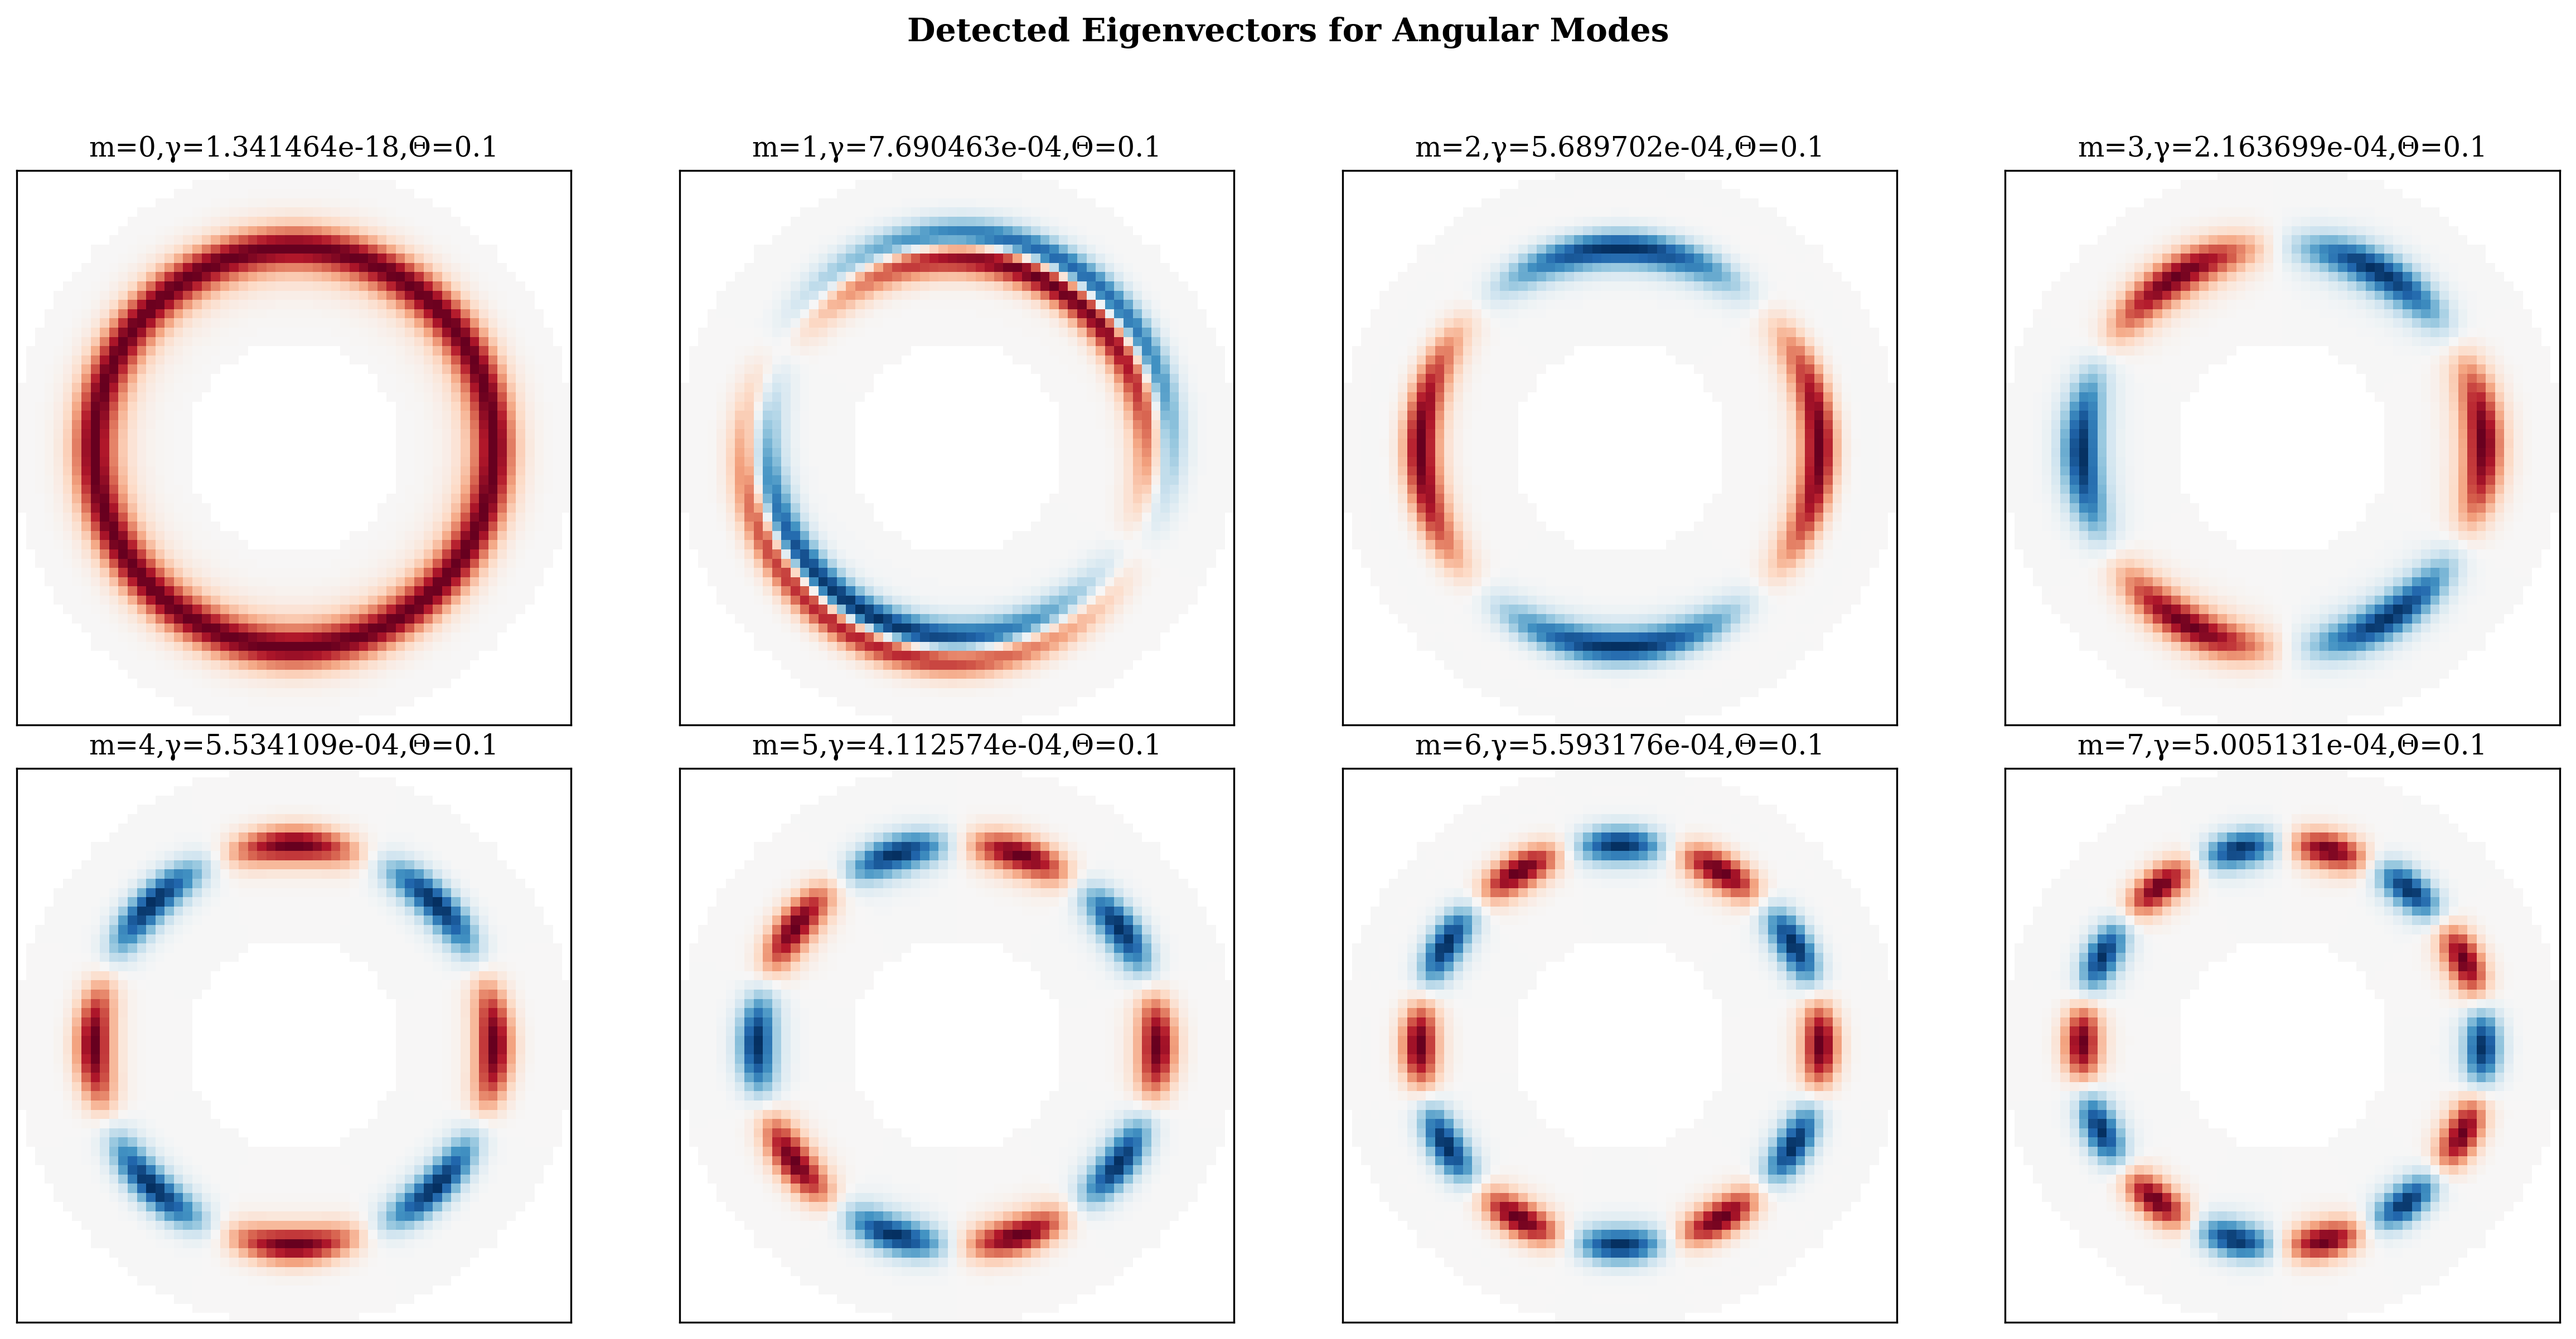
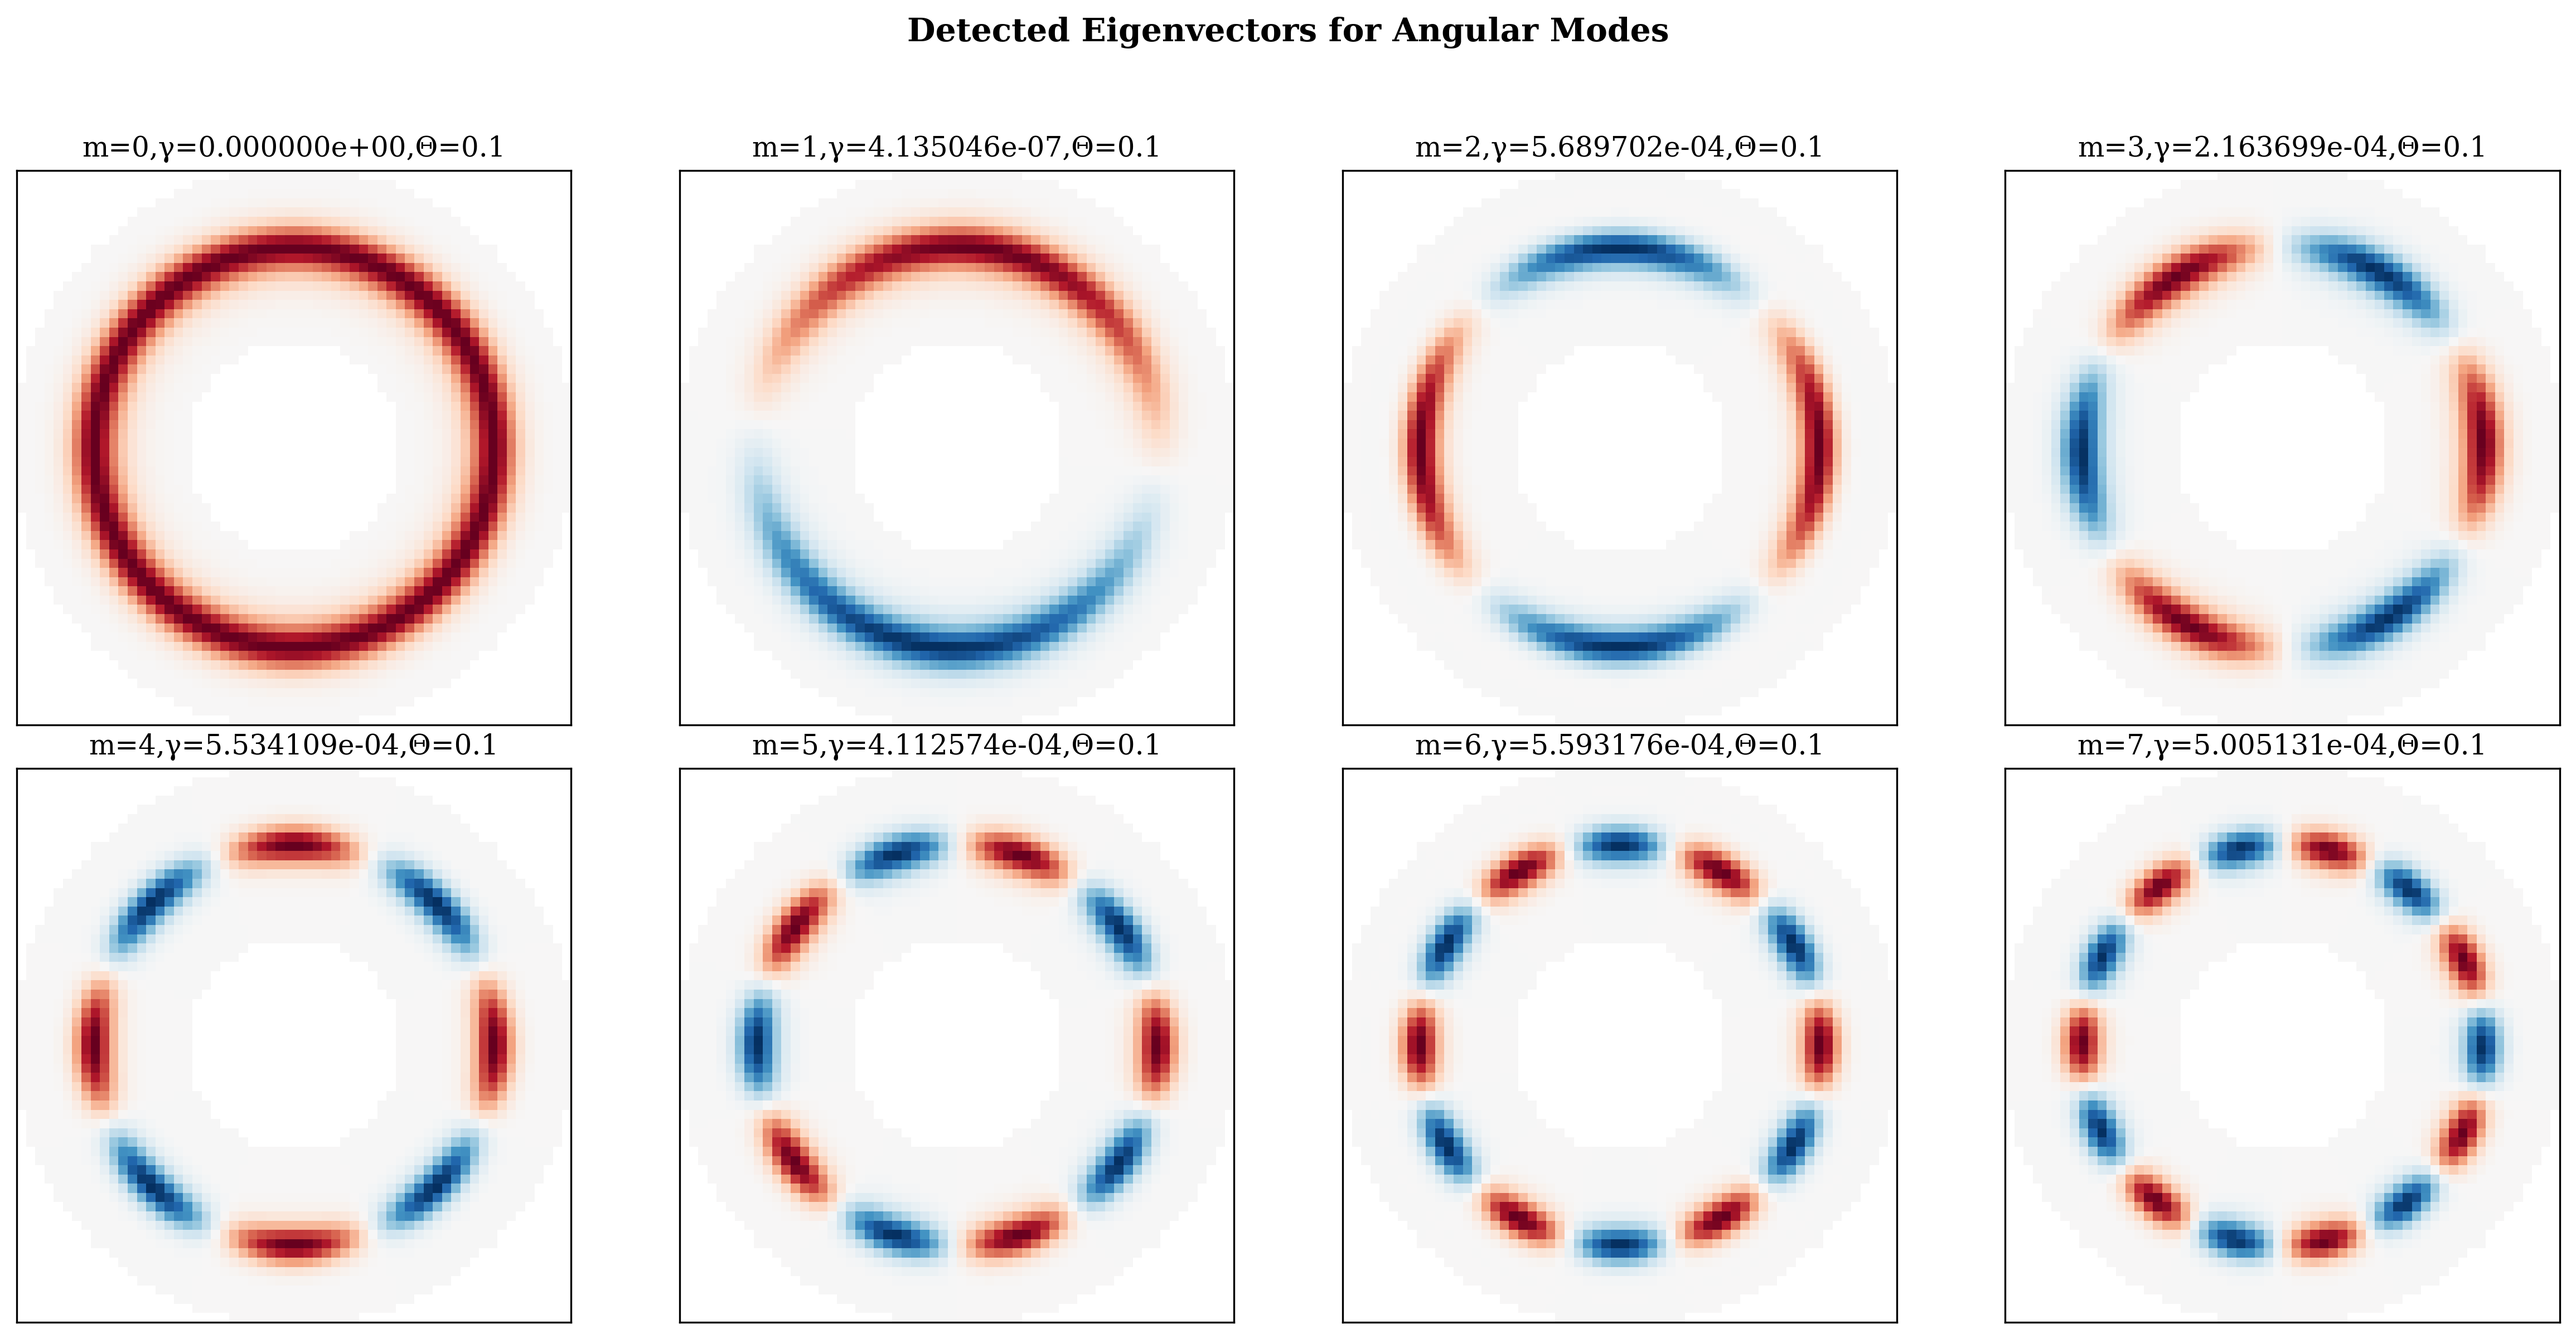
Come back simpler ploter: remove m=1 special case

Changed region(s): [[0.2805, 0.1561, 0.4675, 0.5306], [0.0312, 0.0936, 0.187, 0.1248], [0.3429, 0.0936, 0.4052, 0.1248]]

diff --git a/kryhin_levitov_2021/collision_integral_direct/Matrixes_bruteforce/read.py b/kryhin_levitov_2021/collision_integral_direct/Matrixes_bruteforce/read.py
@@ -25,7 +25,7 @@ plt.rcParams['font.family'] = 'serif'
 plt.rcParams["legend.frameon"] = False
 
 # Specific file to analyze
-MATRIX_FILE = r"D:\Рабочая папка\GitHub\electronic-kapitsa-waves\kryhin_levitov_2021\collision_integral_direct\Matrixes_bruteforce\M_Iee_nonparabolic_mu1_U10_N320_dp0.04626814_T0.1.pkl"#"D:\Рабочая папка\GitHub\electronic-kapitsa-waves\kryhin_levitov_2021\collision_integral_direct\Matrixes_bruteforce\M_Iee_nonparabolic_mu10_U1_N320_dp0.04626814_T0.1.pkl"#"D:\Downloads\28_1\Matrixes_bruteforce\M_Iee_N320_dp0.04626814_T0.1.pkl"#"D:\Рабочая папка\GitHub\electronic-kapitsa-waves\kryhin_levitov_2021\collision_integral_direct\Matrixes_bruteforce\M_Iee_N410_dp0.012247449_T0.01.pkl"
+MATRIX_FILE = r"D:\Рабочая папка\GitHub\electronic-kapitsa-waves\kryhin_levitov_2021\collision_integral_direct\Matrixes_bruteforce\M_Iee_nonparabolic_mu1_U10_N320_dp0.04626814_T0.1.pkl"#r"D:\Downloads\28_1\Matrixes_bruteforce\M_Iee_N320_dp0.04626814_T0.1.pkl"#"D:\Рабочая папка\GitHub\electronic-kapitsa-waves\kryhin_levitov_2021\collision_integral_direct\Matrixes_bruteforce\M_Iee_N410_dp0.012247449_T0.01.pkl"
 #M_Iee_N320_dp0.032716515_T0.1.pkl"
 
 def build_centered_lattice(Nmax: int):
@@ -59,52 +59,6 @@ def reconstruct_px_py(meta):
     py = dp * (ny_active.astype(np.float64) + shift_y)
     
     return px, py
-
-
-def _alpha_disp_from_meta(meta):
-    """
-    Backward-compatible: if old files don't have dispersion metadata, assume parabolic.
-    """
-    disp = str(meta.get("dispersion", "parabolic"))
-    if "alpha" in meta:
-        alpha = float(meta["alpha"])
-    else:
-        mu = float(meta.get("mu_phys", 1.0))
-        U  = float(meta.get("U_band", 0.0))
-        alpha = U / mu if mu > 0 else 0.0
-    return alpha, disp
-
-
-def deps_dP_dimless(P, alpha, disp):
-    """
-    d eps / d p in dimensionless variables used by the generator.
-    Must match generator's definitions.
-    """
-    P = np.asarray(P, dtype=np.float64)
-    if disp == "parabolic":
-        return 2.0 * P
-    if disp == "nonparabolic":
-        a = float(alpha)
-        denom = np.sqrt(a * a + (1.0 + 2.0 * a) * (P * P))
-        return (1.0 + 2.0 * a) * P / np.maximum(denom, 1e-300)
-    raise ValueError(f"Unknown dispersion={disp!r}")
-
-
-def current_basis_vectors(meta, px, py):
-    """
-    Build current/velocity harmonic components:
-        jx ~ v(p) cos(theta),  jy ~ v(p) sin(theta),
-    where v(p)=d eps/dp for the dimensionless dispersion.
-    """
-    P = np.sqrt(px * px + py * py)
-    alpha, disp = _alpha_disp_from_meta(meta)
-    vmag = deps_dP_dimless(P, alpha, disp)
-    invP = 1.0 / np.maximum(P, 1e-300)
-    cx = px * invP
-    cy = py * invP
-    jx = vmag * cx
-    jy = vmag * cy
-    return jx, jy
 
 
 def wdot(u, v, w):
@@ -254,14 +208,11 @@ def print_conservation_residuals(Ma, meta, px, py):
         A = csr_matrix(-Ma)
 
     ones = np.ones(A.shape[0], dtype=np.float64)
-    jx, jy = current_basis_vectors(meta, px, py)
 
     cands = {
         "eta:1":   ones,
         "eta:px":  px,
         "eta:py":  py,
-        "eta:vx":  jx,
-        "eta:vy":  jy,
         "df:w":    w_safe,
         "df:wpx":  w_safe * px,
         "df:wpy":  w_safe * py,
@@ -320,9 +271,6 @@ def compute_eigenfunctions_by_mode(Ma, meta, ms=[0, 1, 2, 3, 4, 5, 6, 7, 8]):
     P = np.sqrt(px * px + py * py)
     Theta = float(meta.get("Theta", 0.0))
     dp = float(meta.get("dp", 0.0))
-
-    # Current basis components (vx, vy)
-    jx, jy = current_basis_vectors(meta, px, py)
     
     # Collision operator: -M v = gamma W v
     if isinstance(Ma, csr_matrix):
@@ -345,7 +293,7 @@ def compute_eigenfunctions_by_mode(Ma, meta, ms=[0, 1, 2, 3, 4, 5, 6, 7, 8]):
     if REG_ABS > 0.0:
         A = A + diags([REG_ABS] * n, 0, format="csr")
     
-    # Invariants under normal e-e collisions: density + momentum (px,py)
+    # Invariants: density and momentum
     inv_vecs = [np.ones(n, dtype=np.float64), px.copy(), py.copy()]
     
     # W-orthonormalize invariants (density + px + py)
@@ -370,31 +318,14 @@ def compute_eigenfunctions_by_mode(Ma, meta, ms=[0, 1, 2, 3, 4, 5, 6, 7, 8]):
             # m=0: constant mode (conserved density)
             u0 = inv_orth[0] if len(inv_orth) > 0 else np.ones(n, dtype=np.float64) / np.sqrt(n)
             eigenfunctions[m] = u0
-            # Report Rayleigh gamma for diagnostics (should be ~0)
-            gamma0 = rayleigh_gamma(A, w_safe, u0)
-            eigenvalues[m] = float(max(gamma0, 0.0))
-            print(f"  [m={m}] density mode: gamma(Rayleigh)={gamma0:.6e} (should be ~0)")
+            eigenvalues[m] = 0.0
+            print(f"  [m={m}] density mode: gamma=0.0 (conserved)")
             continue
         
-        if m == 1:
-            # m=1 in *this project* represents the CURRENT (velocity) harmonic.
-            # To obtain a finite relaxation rate in non-parabolic bands, we must
-            # remove the conserved density+momentum subspace first; otherwise the
-            # current basis overlaps the exact momentum zero-modes and returns gamma~0.
-            remove = inv_orth if len(inv_orth) > 0 else None
-
-            # Allow radial structure in current (important when v(p) varies across the shell)
-            sigma_p = max(RADIAL_SIGMA_P_MULT * (0.5 * Theta), 4.0 * dp, 1e-12)
-            z = (P - 1.0) / sigma_p
-            g = np.exp(-0.5 * z * z)
-
-            basis = []
-            for kk in range(int(RADIAL_BASIS_K)):
-                rk = (z ** kk)
-                basis.append(g * rk * jx)
-                basis.append(g * rk * jy)
-
-            U_list = w_orthonormalize(basis, w_safe, remove_basis=remove)
+        if m <-1:#== 1:
+            # m=1 *is* momentum conservation
+            remove = inv_orth[:1] if len(inv_orth) > 0 else None
+            U_list = w_orthonormalize([px.copy(), py.copy()], w_safe, remove_basis=remove)
         else:
             # For m>=2, allow radial structure (P-1)^k * cos/sin(mθ)
             remove = inv_orth[:1] if len(inv_orth) > 0 else None
@@ -412,24 +343,9 @@ def compute_eigenfunctions_by_mode(Ma, meta, ms=[0, 1, 2, 3, 4, 5, 6, 7, 8]):
             U_list = w_orthonormalize(basis, w_safe, remove_basis=remove)
         
         if len(U_list) == 0:
-            if m == 1:
-                # Parabolic/Galilean regime: current lies entirely in conserved momentum subspace.
-                # In that case, the "relaxing" current component is numerically zero -> gamma=0.
-                # We return the conserved drift-like x-current proxy for plotting.
-                u = jx.copy()
-                # Remove density component only (so it looks like a dipole)
-                if len(inv_orth) > 0:
-                    u = u - wdot(inv_orth[0], u, w_safe) * inv_orth[0]
-                nrm = np.sqrt(max(wdot(u, u, w_safe), 0.0))
-                if nrm > 1e-30:
-                    u /= nrm
-                eigenfunctions[m] = u
-                eigenvalues[m] = 0.0
-                print(f"  [m={m}] current basis fully conserved (after removing invariants): gamma=0.0")
-            else:
-                print(f"  [m={m}] No valid basis, skipping")
-                eigenfunctions[m] = None
-                eigenvalues[m] = np.nan
+            print(f"  [m={m}] No valid basis, skipping")
+            eigenfunctions[m] = None
+            eigenvalues[m] = np.nan
             continue
         
         # Project operator onto basis: C = U^T A U
@@ -459,14 +375,14 @@ def compute_eigenfunctions_by_mode(Ma, meta, ms=[0, 1, 2, 3, 4, 5, 6, 7, 8]):
         if nrm > 1e-30:
             u = u / nrm
         
-        # Optional: make m=1 plot stable by aligning with +jx (x-current direction)
-        if m == 1:
-            jx_proj = abs(wdot(u, jx, w_safe))
-            jy_proj = abs(wdot(u, jy, w_safe))
-            if jx_proj >= jy_proj:
-                u *= np.sign(wdot(u, jx, w_safe) + 1e-300)
+        # Optional: make m=1 plot stable by aligning with +px if it's that mode
+        if m<-1: #== 1:
+            px_proj = abs(wdot(u, px, w_safe))
+            py_proj = abs(wdot(u, py, w_safe))
+            if px_proj >= py_proj:
+                u *= np.sign(wdot(u, px, w_safe) + 1e-300)
             else:
-                u *= np.sign(wdot(u, jy, w_safe) + 1e-300)
+                u *= np.sign(wdot(u, py, w_safe) + 1e-300)
         
         eigenfunctions[m] = u
         eigenvalues[m] = gamma
@@ -752,7 +668,7 @@ if __name__ == "__main__":
 
     # Also compute and plot raw eigenvectors before angular-mode detection
     print()
-    n_eigs=12
+    n_eigs=16
     print("=== Computing raw eigenfunctions (no angular-mode projection) ===", flush=True)
     vals_raw, vecs_raw, px_raw, py_raw = compute_general_eigenfunctions(Ma, meta, n_eigs=n_eigs)
 
